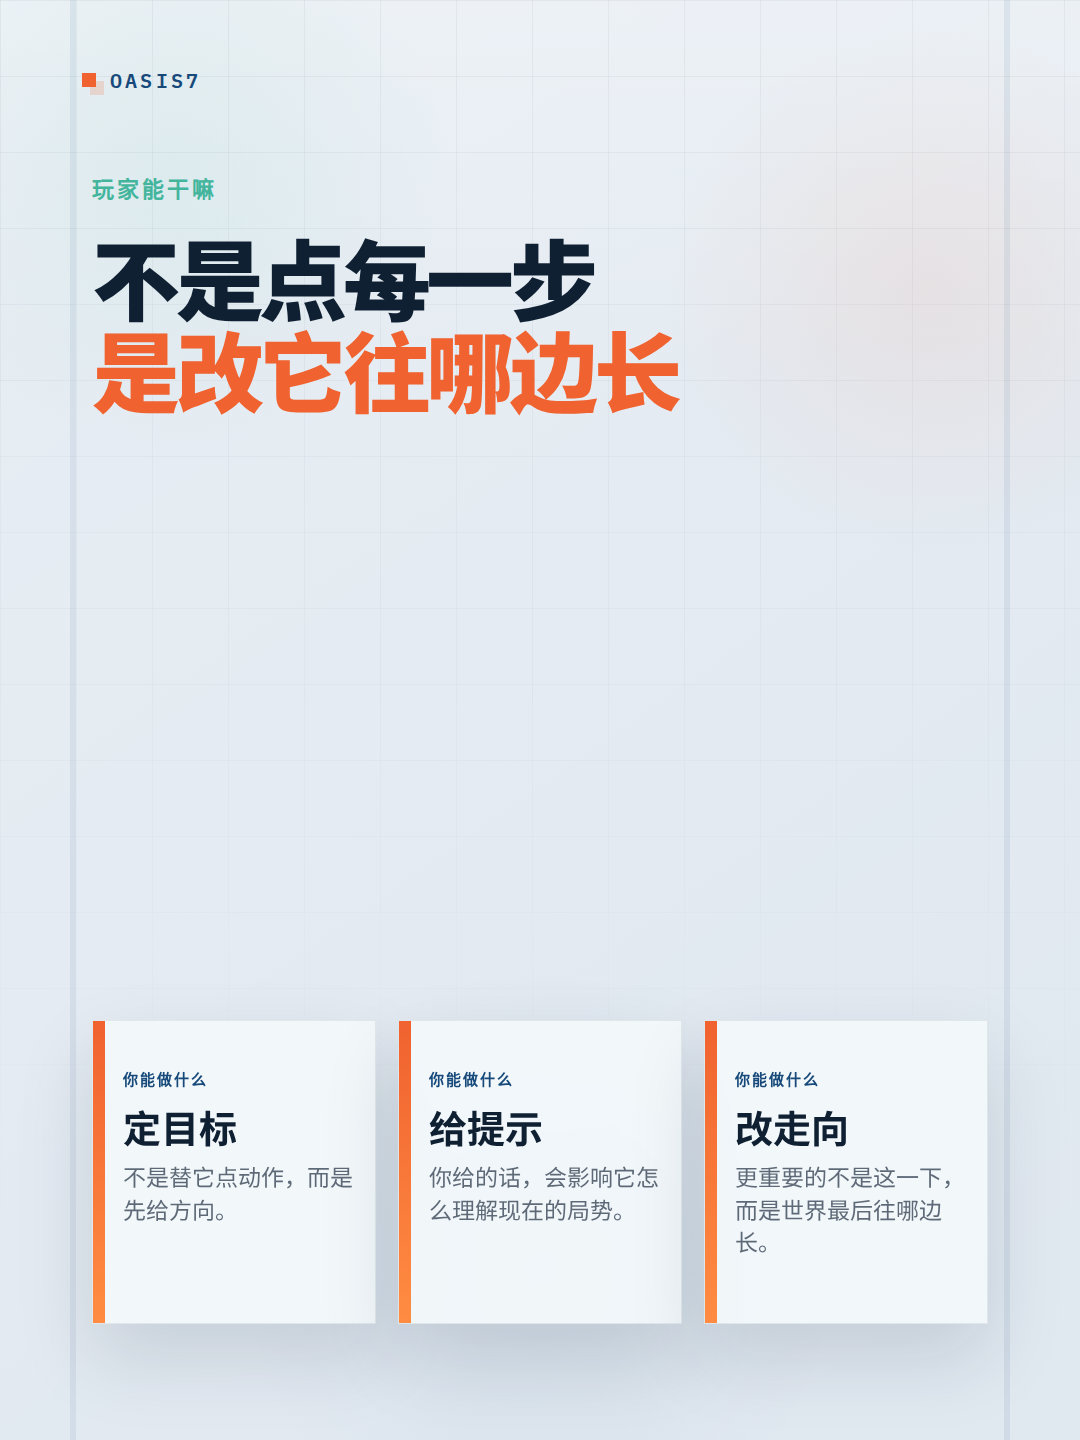
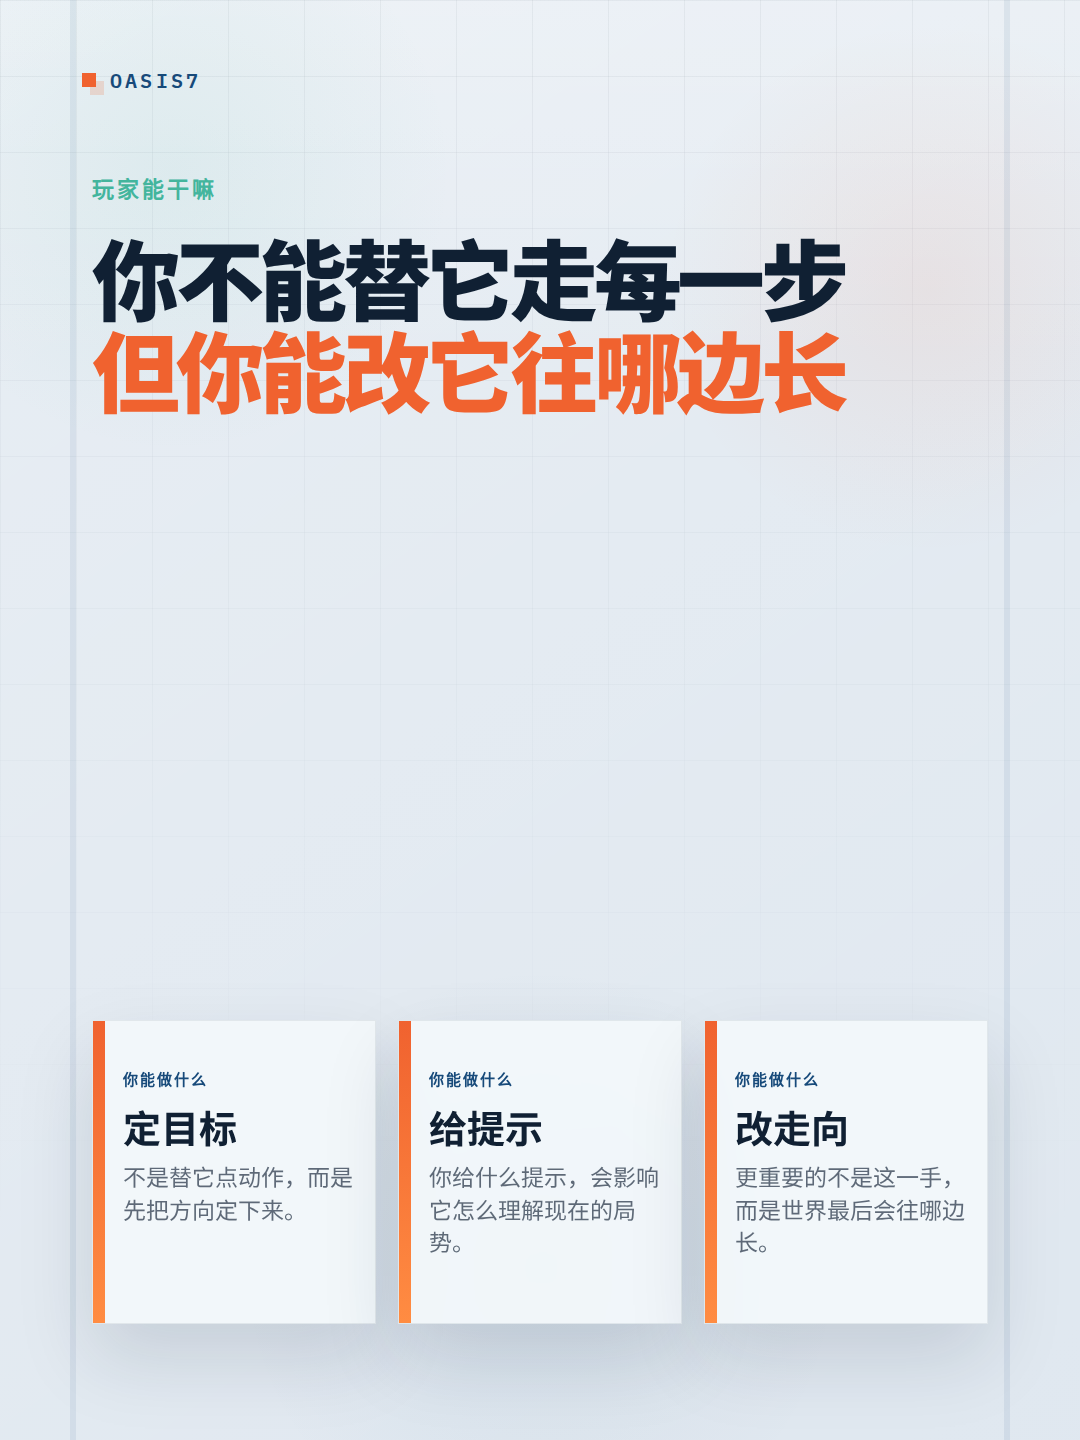
Optimize Xiaohongshu player boundary post

diff --git a/site/social/xiaohongshu-player-boundary.html b/site/social/xiaohongshu-player-boundary.html
@@ -552,37 +552,37 @@
         {
           kind: "cover",
           phase: "",
-          title: '我其实不太想让玩家<br /><span class="accent">直接操控角色</span>',
+          title: '玩家为什么不能<br /><span class="accent">直接控制角色？</span>',
           subtitle:
             "说白了，我更想让玩家在外面推一把，而不是直接附身进去。",
           rows: [
             {
               label: "不是",
-              text: "替某个角色活",
+              text: "附身一个角色",
             },
             {
               label: "而是",
-              text: "在世界外面推一把，看它怎么回应",
+              text: "在外面给方向，看世界怎么回应",
             },
           ],
           note:
-            "先把这个关系讲清，再谈玩法。",
+            "先把玩家位置讲清，再谈玩法。",
           signal: "不是附身\n是推一把",
         },
         {
           kind: "editorial",
           phase: "",
-          eyebrow: "我后来想明白了",
-          title: '玩家不用附身进去<br /><span class="accent">也能有参与感</span>',
+          eyebrow: "很多人都会问",
+          title: '你不是去操控一个人<br /><span class="accent">而是去影响一个世界</span>',
           paragraphs: [
-            "我不太想让玩家附身在某个角色身上。",
-            "我更想让玩家站在世界外面给方向，然后看它自己运转。",
+            "我不想让玩家一直盯着某个人跑来跑去，点移动、点采集、点执行。",
+            "我更想让玩家站在外面给方向，然后看这个世界自己接下去。",
           ],
           focusTitle: "我更在意的",
           focusBody:
-            "不是手感像不像自己在操作，而是你推的那一下，会不会真的把世界带偏。",
+            "不是你有没有手操到每一步，而是你推的那一下，会不会真的把世界带偏。",
           quoteTitle: "说白了",
-          quoteBody: "不是进去替它活，是在外面推它一把。",
+          quoteBody: "不是手操一个人，是在外面推一个世界。",
         },
         {
           kind: "boundary",
@@ -604,19 +604,19 @@
           kind: "triple",
           phase: "",
           eyebrow: "玩家能干嘛",
-          title: '不是点每一步<br /><span class="accent">是改它往哪边长</span>',
+          title: '你不能替它走每一步<br /><span class="accent">但你能改它往哪边长</span>',
           cards: [
             {
               title: "定目标",
-              body: "不是替它点动作，而是先给方向。",
+              body: "不是替它点动作，而是先把方向定下来。",
             },
             {
               title: "给提示",
-              body: "你给的话，会影响它怎么理解现在的局势。",
+              body: "你给什么提示，会影响它怎么理解现在的局势。",
             },
             {
               title: "改走向",
-              body: "更重要的不是这一下，而是世界最后往哪边长。",
+              body: "更重要的不是这一手，而是世界最后会往哪边长。",
             },
           ],
         },
@@ -625,9 +625,9 @@
           phase: "",
           eyebrow: "想听听你们的",
           title: '如果是你<br /><span class="accent">你会怎么选？</span>',
-          question: "自己操控角色\n还是在外面推一把？",
+          question: "直接控一个角色\n还是在外面给方向？",
           note:
-            "我其实挺想知道，大家更在意手感，还是更在意影响力。",
+            "我更想知道，大家更想要手操感，还是更想要影响一个世界的感觉。",
         },
       ];
 

diff --git a/doc/readme/governance/readme-xiaohongshu-player-boundary-post-pack-2026-03-25.md b/doc/readme/governance/readme-xiaohongshu-player-boundary-post-pack-2026-03-25.md
@@ -30,83 +30,89 @@
 - 形式：`1 页封面 + 3 页内容 + 1 页收束页`
 - 推荐标题：
 ```text
-为什么我不想让玩家直接操控角色
+玩家为什么不能直接控制角色？
 ```
 
 ## 正文建议
 ```text
-前一条讲了这个游戏大概是什么。
+前一条发完以后，
+很多人都在问：
+那玩家到底怎么进这个世界？
 
-这条想把另一个很容易被问到的问题讲清楚：
-为什么玩家不能直接控制一个角色？
+答案其实很简单：
+你不是去附身一个角色。
 
-因为我不太想做那种
-“玩家附身在一个角色身上”的感觉。
+我不想让玩家
+一直盯着某个人跑来跑去，
+点移动、点采集、点执行。
 
-我更想让玩家
-站在世界外面给方向，
-看这个世界自己怎么回应。
+我更想做的是另一种关系。
+你站在外面，
+给方向，
+给目标，
+然后看这个世界自己怎么接。
 
-所以玩家不是直接操控某个角色去移动、采集、执行每一个动作。
+所以这里玩家不能直接替某个角色行动。
 
-玩家更像一个战略引导者。
+但你也不是旁观。
 你可以定目标，
-可以给提示，
-可以影响组织结构，
-推动这个世界朝某个方向长。
+给提示，
+改走向，
+看它最后会长成什么样。
 
-但你不能直接替它活。
+说白了，
+我更想让玩家影响一个世界，
+而不是手操一个人。
 
-我更想看的，
-不是玩家手动摆好的结果，
-而是一个世界会不会真的自己长出分工、协作和冲突。
-
-所以这里的参与感，
-不是“手把手控制”，
-而是“你给出去的方向，真的把这个世界带偏了”。
+我更想看的也不是
+“你按得有多快”，
+而是你推的那一下，
+会不会真的把这个世界带偏。
 
 如果是你，
-你会更想直接操控角色，
-还是站在世界外面给方向？
+你会更想直接控一个角色，
+还是在外面给方向？
 ```
 
 ## 评论区引导
 ```text
-如果是你，你会更想直接操控角色，还是站在世界外面给方向？
+如果是你，你会更想直接控一个角色，还是在外面给方向？
 ```
 
 ## 卡片文案
 
 ### 第 1 页 / 封面
 ```text
-为什么我不想让玩家
-直接操控角色
+玩家为什么不能
+直接控制角色？
 ```
 
 ### 第 2 页 / 先讲结论
 ```text
-我不太想让玩家
-附身在一个角色身上
+你不是去附身
+一个角色
 
-我更想让玩家
-去影响一个会自己运转的世界
+你是去影响
+一个会自己运转的世界
 ```
 
 ### 第 3 页 / 玩家位置
 ```text
-玩家不是操作者
+玩家不是旁观者
 
-更像是在世界外面
-下判断的人
+也不是操作者
+
+更像是在外面
+推一把的人
 ```
 
 ### 第 4 页 / 玩家能做什么
 ```text
-你不能直接替它行动
+你不能替它走每一步
 
 但你可以
-指定目标
-提供提示
+定目标
+给提示
 改它的走向
 ```
 
@@ -114,14 +120,15 @@
 ```text
 如果是你
 
-你会更想直接操控角色
-还是站在世界外面给方向？
+你会更想直接控一个角色
+还是在外面给方向？
 ```
 
 ## 封面与视觉建议
 ### 封面短句
 ```text
-玩家不是操作者
+不是附身
+是推一把
 ```
 
 ### 推荐视觉搭配
@@ -160,10 +167,10 @@
 ```text
 #独立开发
 #游戏开发
-#AI
-#Agent
 #游戏设计
-#开发日记
+#玩法设计
+#世界模拟
+#Agent
 ```
 
 ## 发布备注
@@ -175,6 +182,7 @@
 - 如果使用本帖配套 HTML，优先选第 1 页做封面，第 3 页作为唯一关系图核心页，其余页保持一句观点一个停顿点，不要把每一页都做成系统说明板。
 - 这一版已经压到 5 页，优先测试短节奏，不要再把被砍掉的解释层加回去。
 - 如果还要继续压字，先压第 2 页和第 4 页，不要动第 3 页的边界图页；那一页是整组里最需要保留的信息点。
+- 标题里优先保留“玩家 / 角色 / 控制”这几个词，首段前 50 字里要尽快出现“玩家怎么进这个世界”，这样搜索和停留都更稳。
 
 ## 后续衔接建议
 1. 如果评论区在问“那玩家具体怎么给方向”，下一篇可以拆“玩家能做哪些高层决策”。

diff --git a/doc/devlog/2026-03-26.md b/doc/devlog/2026-03-26.md
@@ -395,3 +395,16 @@
   - `agent-browser open http://127.0.0.1:8765/site/social/xiaohongshu-ai-laziness-game-mode.html?slide=5`
 - 遗留事项：
   - 这轮主要是去 AI 腔，不再继续变动视觉结构；如果还要压字，优先改第 4 页长副文，不要再改标题句式。
+
+## 11:58:06 CST / liveops_community
+- 完成内容：
+  - 按 `xiaohongshu-note-analyzer` 复盘第四篇，重点收口了标题搜索词、首屏钩子和评论区问题，把原来偏“设计判断说明”的写法改成更像平台问题帖的版本。
+  - 第四篇标题改为“玩家为什么不能直接控制角色？”，正文和轮播文案也同步压成“不是附身一个角色，而是在外面给方向、影响一个世界”这条更直接的表达。
+  - 覆盖导出 `site/social/xiaohongshu-player-boundary-slide1.png` 到 `site/social/xiaohongshu-player-boundary-slide5.png`，并更新 `doc/readme/project.md` 里第四篇的验收关键字，保证追踪文档和实际素材一致。
+- 执行验证：
+  - `agent-browser open http://127.0.0.1:8765/site/social/xiaohongshu-player-boundary.html?slide=1`
+  - `agent-browser open http://127.0.0.1:8765/site/social/xiaohongshu-player-boundary.html?slide=2`
+  - `agent-browser open http://127.0.0.1:8765/site/social/xiaohongshu-player-boundary.html?slide=5`
+  - `rg -n "玩家为什么不能直接控制角色|你不是去附身一个角色|你不是去操控一个人|定目标|给提示|直接控一个角色" doc/readme/governance/readme-xiaohongshu-player-boundary-post-pack-2026-03-25.md`
+- 遗留事项：
+  - 这一轮主要改的是平台表达，不动第四篇的整体视觉骨架；如果还要继续抠，优先看第 2 页右侧说明框是否还能再短一点。

diff --git a/doc/readme/project.md b/doc/readme/project.md
@@ -337,7 +337,7 @@
     - `site/social/xiaohongshu-player-boundary-slide5.png`
     - `doc/devlog/2026-03-25.md`
   - 验收命令 (`test_tier_required`):
-    - `rg -n "为什么我不想让玩家直接操控角色|玩家不是直接操控角色|指定目标|提供提示词|影响组织结构|你会更想直接操控角色" doc/readme/governance/readme-xiaohongshu-player-boundary-post-pack-2026-03-25.md`
+    - `rg -n "玩家为什么不能直接控制角色|你不是去附身一个角色|你不是去操控一个人|定目标|给提示|直接控一个角色" doc/readme/governance/readme-xiaohongshu-player-boundary-post-pack-2026-03-25.md`
     - `./scripts/doc-governance-check.sh`
     - `git diff --check`
 - [x] TASK-README-037 (PRD-README-027) [test_tier_required]: 为小红书第五篇“AI时代，你变\"懒\"了么”补齐独立素材包，固定标题、正文、轮播结构、互动问题与游戏模式讨论收口。
